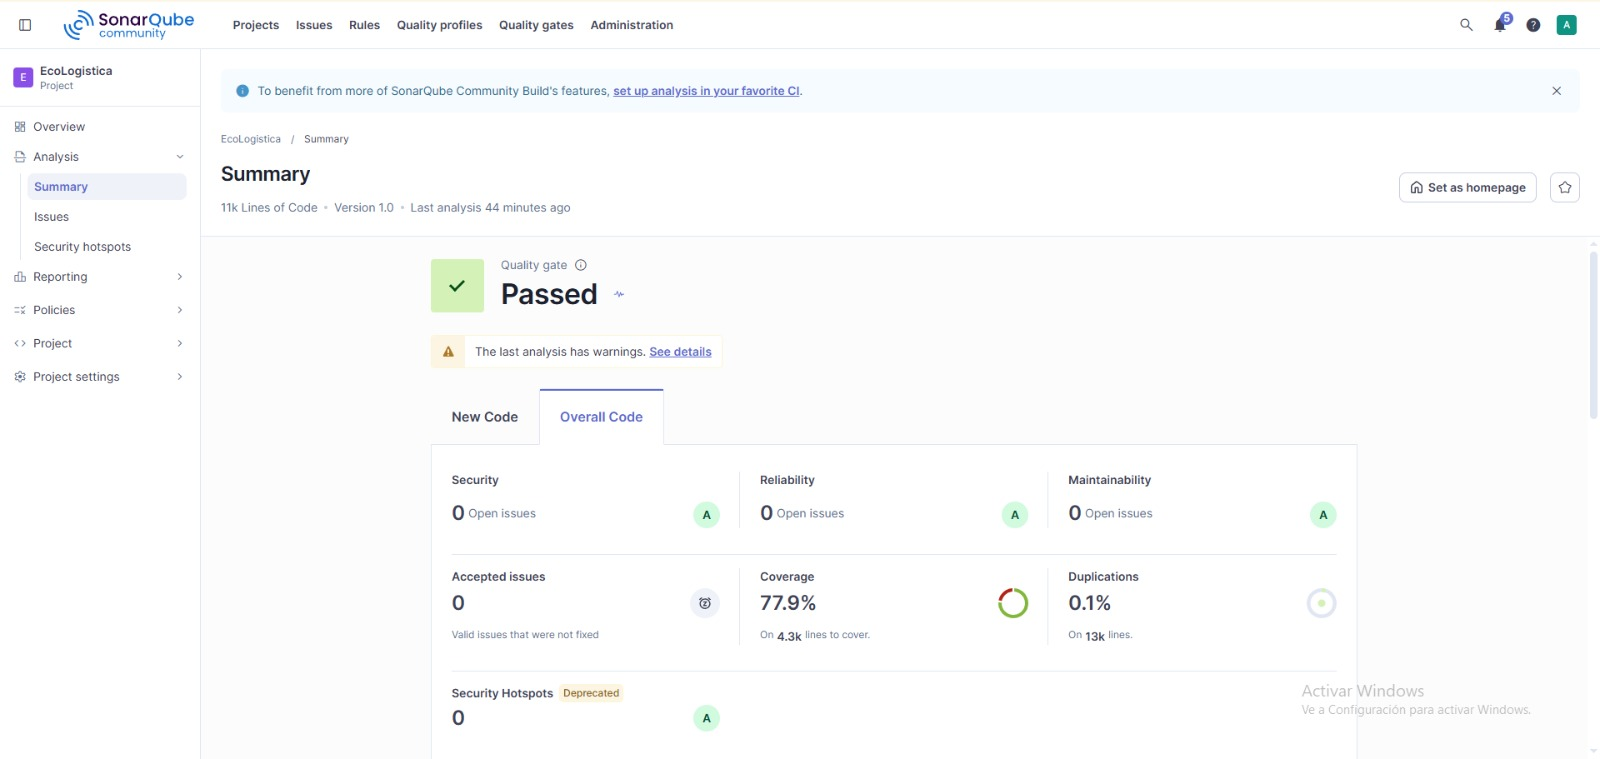
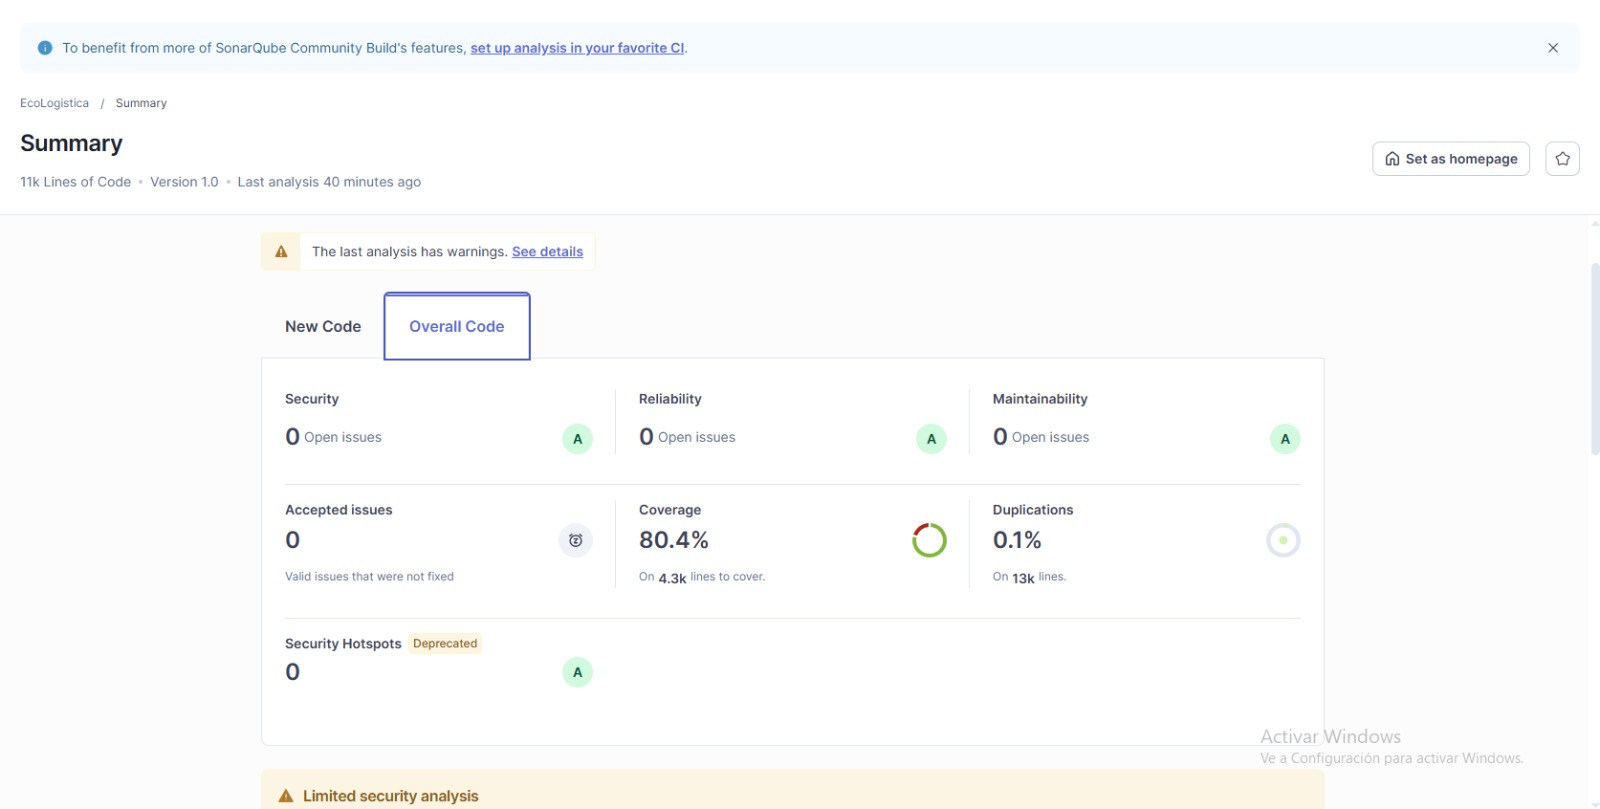
docs(sprint03): actualizar SonarQube con el analisis mas reciente (cobertura 80,4 % y 93,5 % en codigo nuevo)

diff --git a/docs/03 Implementación/Sprint 03/03 Calidad de código V_1_0_0.md b/docs/03 Implementación/Sprint 03/03 Calidad de código V_1_0_0.md
@@ -10,11 +10,13 @@
 
 ## 1. Resumen Ejecutivo de Quality Gate
 
-- **Estado del Quality Gate:** PASSED. El último análisis tiene 2 advertencias: Python se analiza por defecto como compatible con las versiones 3.10 a 3.14 (la herramienta sugiere definir `sonar.python.version`) y falta la información de historial Git (*blame*) de 196 archivos.
-- **Porcentaje de Cobertura de Pruebas (Coverage):** 77,9 % sobre 4,3 mil líneas por cubrir. Queda por debajo del 80 % que exige la Definition of Done. Ese análisis es anterior a las pruebas incorporadas el 30/10: la medición local posterior da backend 97 % y frontend 95,9 % de sentencias (90,2 % de ramas).
-- **Duplicación de Código:** 0,1 % sobre 13 mil líneas (0,0 % en el código nuevo). El código nuevo (*New Code*) tiene 90,4 % de cobertura y no hay incidencias en el listado *Issues*.
+- **Estado del Quality Gate:** PASSED. Condiciones sobre el código nuevo (desde el 30/10/2026): incidencias nuevas = 0, cobertura ≥ 80 % y duplicación ≤ 3 %. El último análisis tiene 2 advertencias: Python se analiza por defecto como compatible con las versiones 3.10 a 3.14 (la herramienta sugiere definir `sonar.python.version`) y falta la información de historial Git (*blame*) de 196 archivos.
+- **Porcentaje de Cobertura de Pruebas (Coverage):** **80,4 %** del código completo (sobre 4,3 mil líneas por cubrir) y **93,5 %** del código nuevo (sobre 153 líneas nuevas), por encima del 80 % que exige la Definition of Done. Mediciones locales del 30/10: backend 97 % y frontend 95,9 % de sentencias.
+- **Duplicación de Código:** 0,1 % del código completo (13 mil líneas) y 0,0 % del código nuevo (1,6 mil líneas nuevas), por debajo del 3 % exigido.
 
-![Resumen del proyecto EcoLogistica en SonarQube Community Build](evidencias-sonar/sonarqube-community-ecologistica-resumen.jpg)
+![Resumen del código completo (Overall Code) en SonarQube Community Build](evidencias-sonar/sonarqube-community-ecologistica-resumen.jpg)
+
+![Resumen del código nuevo (New Code) en SonarQube Community Build](evidencias-sonar/sonarqube-community-ecologistica-codigo-nuevo.jpg)
 
 ## 2. Métricas Principales
 
@@ -25,13 +27,13 @@
 | Code Smells | 0 (calificación de mantenibilidad A) | Sin incidencias |
 | Security Hotspots | 0 (calificación A) | Sin hotspots |
 
-El proyecto tiene 11 mil líneas de código (13 mil líneas en total) y 0 incidencias aceptadas (*Accepted issues*).
+El proyecto tiene 11 mil líneas de código (13 mil líneas en total), 0 incidencias aceptadas (*Accepted issues*) y 0 incidencias nuevas desde el 30/10/2026.
 
 ## 3. Plan de Remediación y Deuda Técnica
 
 - **Deuda Técnica Estimada:** 0 min según el análisis (sin incidencias de mantenibilidad); el valor exacto de la medida *Technical Debt* se registra de *Measures*.
 - **Principales hallazgos y acciones correctivas:**
-  1. **Cobertura de 77,9 % en SonarQube, inferior al 80 % de la DoD.** La medición local posterior (backend 97 %, frontend 95,9 %) ya supera el umbral. Acción: volver a ejecutar SonarQube enviando los informes `coverage.xml` y `lcov.info` para actualizar el valor.
+  1. **Cobertura.** Cumple: 80,4 % del código completo y 93,5 % del código nuevo, frente al 80 % exigido; el margen del código completo es pequeño. Acción: mantener o subir la cobertura de las ramas de error de los adaptadores y de las vistas de administración, y enviar los informes `coverage.xml` y `lcov.info` en cada Pull Request.
   2. **Advertencias del análisis.** Acción: definir `sonar.python.version` con la versión de Python que usa el proyecto y corregir la información de historial Git de los 196 archivos (por ejemplo, analizando desde un clon completo y no uno superficial); luego repetir el análisis.
   3. **Dependencias de desarrollo con vulnerabilidades altas** (`npm audit`, 30/10/2026): `vite` 8.3.0–8.3.2 y `undici` 8.0.0–8.12.1 (transitiva); `pip-audit` sin hallazgos. Acción: `npm audit fix` y repetir las pruebas.
   4. **Tres archivos de backend vacíos** (`generate_routes.py`, `reoptimize_route.py` y `route.py`); la lógica de planificación está en `domain/planning.py`. Acción: eliminarlos o implementarlos con la aprobación y el despacho de rutas.

diff --git a/docs/03 Implementación/Sprint 03/04 OWASP V_1_1_0.md b/docs/03 Implementación/Sprint 03/04 OWASP V_1_1_0.md
@@ -2,7 +2,7 @@
 
 **Nombre del Proyecto:** EcoLogística Lima – Optimizador de Rutas Sostenibles para DistriRápido S.A.C.
 
-**Herramienta de Escaneo:** SonarQube Community Build (proyecto `EcoLogistica`, versión 1.0): Quality Gate «Passed», **0 incidencias de seguridad y 0 Security Hotspots**, calificación A (ver [03 Calidad de código](03%20Calidad%20de%20c%C3%B3digo%20V_1_0_0.md)). SonarQube no asigna sus incidencias por categoría OWASP; la tercera columna lo combina con la inspección manual del código.
+**Herramienta de Escaneo:** SonarQube Community Build (proyecto `EcoLogistica`, versión 1.0): Quality Gate «Passed», **0 incidencias de seguridad y 0 Security Hotspots**, calificación A, también sobre el código nuevo (ver [03 Calidad de código](03%20Calidad%20de%20c%C3%B3digo%20V_1_0_0.md)). El resumen muestra el aviso «Limited security analysis»: el análisis de seguridad de esta edición es limitado, por lo que 0 incidencias no se interpreta como ausencia de vulnerabilidades. SonarQube no asigna sus incidencias por categoría OWASP; la tercera columna lo combina con la inspección manual del código.
 
 **Versión del documento:** V_1_1_0 · **Fecha:** 30/10/2026 · **Código inspeccionado:** `main`, commit `29ca820`.
 
@@ -38,6 +38,6 @@ Los códigos y nombres siguen la lista oficial [OWASP Top 10:2025](https://top10
 | Versión | Fecha | Autoría / cambio |
 |---|---|---|
 | V_1_0_0 | 30/10/2026 | Rojas Camayo, Valentino Jhan Pierre (commit d36441f). Matriz preliminar con las diez categorías oficiales OWASP 2025; evaluación pendiente. |
-| V_1_1_0 | 30/10/2026 | Tovar Sánchez, Carlos Alberto. Se incorpora la inspección estática manual del código, la auditoría de dependencias y los hotspots a la matriz de Valentino, con la lista oficial 2025; resultado de SonarQube Community Build (0 incidencias de seguridad). Se integran los datos de las capturas de la ampliación de Valentino (commit 155a99a: advertencias del análisis y cobertura del código nuevo, ver 03 Calidad de código) y se retiran sus secciones de preparación que la plantilla no solicita. |
+| V_1_1_0 | 30/10/2026 | Tovar Sánchez, Carlos Alberto. Se anota el aviso «Limited security analysis» del último análisis de SonarQube Community Build. Se incorpora la inspección estática manual del código, la auditoría de dependencias y los hotspots a la matriz de Valentino, con la lista oficial 2025; resultado de SonarQube Community Build (0 incidencias de seguridad). Se integran los datos de las capturas de la ampliación de Valentino (commit 155a99a: advertencias del análisis y cobertura del código nuevo, ver 03 Calidad de código) y se retiran sus secciones de preparación que la plantilla no solicita. |
 
 [← Volver al índice correspondiente](README.md)

diff --git a/docs/03 Implementación/Sprint 03/01 Revisión del Sprint V_1_2_0.md b/docs/03 Implementación/Sprint 03/01 Revisión del Sprint V_1_2_0.md
@@ -22,7 +22,7 @@ La fuente declara US-010, US-011, EN-02 y EN-05 (20 puntos); Jira no se ha consu
 
 | Criterio | US-010 | US-011 | EN-05 | EN-02 |
 |---|---|---|---|---|
-| Cobertura ≥80 % del código nuevo | Cumple en la medición local (backend 97 %, frontend 95,9 %); SonarQube 77,9 % en su análisis previo, por actualizar | Ídem | Ídem | Ídem |
+| Cobertura ≥80 % del código nuevo | Cumple: SonarQube 80,4 % del código completo y 93,5 % del código nuevo; medición local backend 97 % y frontend 95,9 % | Ídem | Ídem | Ídem |
 | Análisis estático sin vulnerabilidades críticas | Cumple: SonarQube con 0 vulnerabilidades y 0 hotspots; lint y tipos sin errores | Ídem | Ídem | Ídem |
 | Revisión por un par mediante PR | No cumple: PR #19 abierto | No cumple: PR #19 abierto | No cumple: PR #16 abierto | No cumple: integrado a `main` sin Pull Request |
 | Staging verificado por quien no implementó | No cumple: sin verificación independiente | Ídem | Ídem | Ídem |
@@ -62,7 +62,7 @@ La tabla es el guion reproducible de la demostración. Un enlace a código o tes
 
 ### Evidencia técnica (29 y 30/10/2026)
 
-Sobre `main` (commit `6ba77a6`, 30/10): frontend con 432 pruebas Vitest, 9 de Node y 40 de navegador aprobadas; backend con 368 pruebas aprobadas, 5 omitidas (PostgreSQL real, no ejecutado) y 36 subpruebas; lint, tipos y compilación sin errores. Cobertura local: backend 97 % y frontend 95,9 % de sentencias (90,2 % de ramas y 97,6 % de líneas); SonarQube Community Build reportó 77,9 % en su análisis, anterior a las pruebas incorporadas el 30/10. Estas cifras son agregadas: no sustituyen la ejecución por escenario de la matriz ni la aceptación formal.
+Sobre `main` (commit `6ba77a6`, 30/10): frontend con 432 pruebas Vitest, 9 de Node y 40 de navegador aprobadas; backend con 368 pruebas aprobadas, 5 omitidas (PostgreSQL real, no ejecutado) y 36 subpruebas; lint, tipos y compilación sin errores. Cobertura local: backend 97 % y frontend 95,9 % de sentencias (90,2 % de ramas y 97,6 % de líneas); SonarQube Community Build reporta 80,4 % del código completo y 93,5 % del código nuevo. Estas cifras son agregadas: no sustituyen la ejecución por escenario de la matriz ni la aceptación formal.
 
 La rama de Mikeiel (`feature/mikeiel/spr3/rutas/optimizacion-co2`) ya está en `main` desde el 30/10: propuesta de rutas por inserción de menor costo con mejora 2-opt, huella de CO₂ por consumo de combustible, detalle de cada ruta en la interfaz y migración `002_consumo_por_km.sql`. Avanza US-005/EN-01 y el cálculo ambiental de US-010; no es un solucionador VRPTW exacto y no incluye aprobación ni despacho. Medición del 30/10 con datos sintéticos (10 corridas de 150 pedidos y 15 vehículos): mediana 3,5 s y máximo 6,6 s.
 
